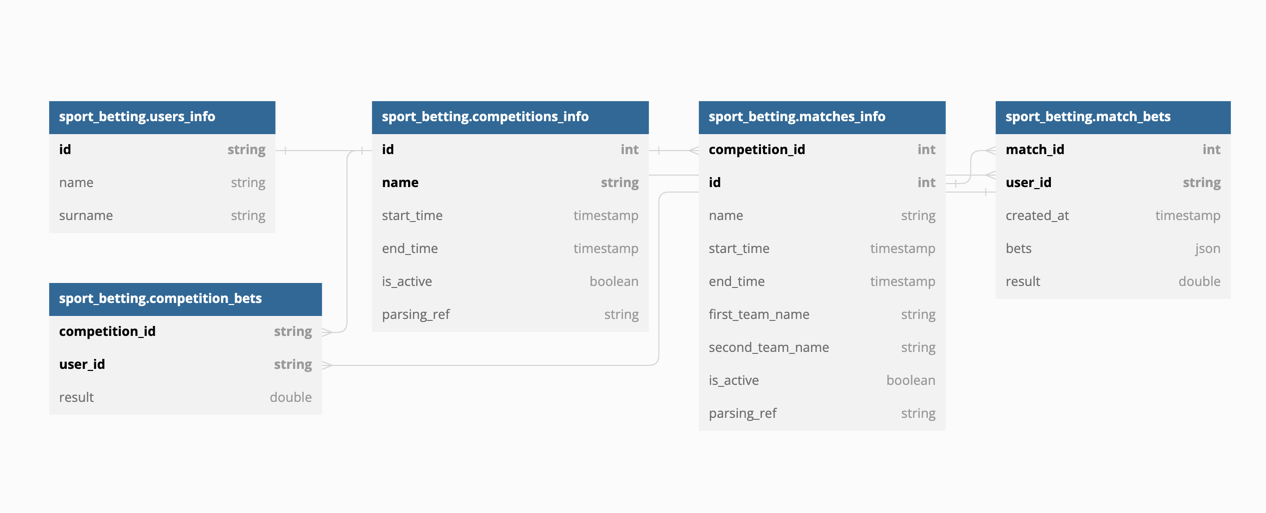
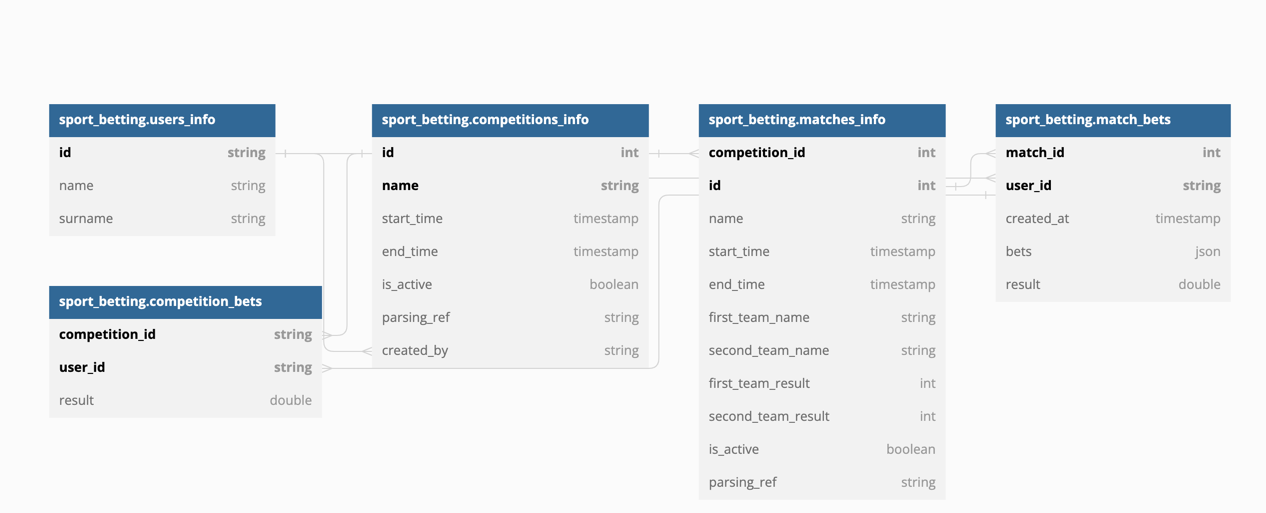
123

diff --git a/README.md b/README.md
@@ -203,8 +203,165 @@ Table sport_betting.codes {
 5) Считаем, что телеграм-ник является неизменным для пользователя и единственным однозначным идентификатором
 
 # Соревнования
-## Ручки
+Вступление в соревнования будет работать по ссылке. Только создатель соревнования может сам поделиться ей с друзьями и  только так пользователь может вступить в него.
 ## Парсер
+Подобновлять инфу с ссылок для парсинга будем раз в день, обновляем инфу о соревнованиях до момента завершения всех матчей соревнования, матчей - до момент авыставления счета. Проходимся по всем соревнованиям и матчам таблицы, где is_active == true и если что обновляем записи. При дергании ручек где есть фильтры по активности мероприятия так же обновляем инфу о всех мероприятиях
+## Ручки
+```
+/competitions:
+        get:
+            description: Получает все соревнования пользователя.
+            parameters:
+              - in: query
+                name: id
+                required: true
+                schema:
+                    type: string
+            responses:
+                '200':
+                    schema:
+                        type: object
+                        required:
+                          - competitions
+                        properties:
+                            competitions:
+                                type: array
+                                items:
+                                    $ref: '#/definitions/Competition'
+                '400':
+                    description: Ошибка при валидации параметров
+                    schema:
+                        $ref: '#/definitions/ErrorResponse'
+                '404':
+                    description: Пользователь не найден
+                    schema:
+                        $ref: '#/definitions/ErrorResponse'
+                        
+/competitions_info:
+        post:
+            description: Добавляет пользователя в участие в соревнование.
+            parameters:
+              - in: query
+                name: competition_id
+                required: true
+                schema:
+                    type: string
+              - in: query
+                name: id
+                required: true
+                schema:
+                    type: string
+            responses:
+                '200':
+                    schema:
+                        $ref: '#/definitions/Competition'
+                '400':
+                    description: Ошибка при валидации параметров
+                    schema:
+                        $ref: '#/definitions/ErrorResponse'
+                '404':
+                    description: Пользователь или соревнование не найдены
+                    schema:
+                        $ref: '#/definitions/ErrorResponse'
+        get:
+            description: Отдает информаицю о соревновании для этого пользовтеля.
+            parameters:
+              - in: query
+                name: competition_id
+                required: true
+                schema:
+                    type: string
+              - in: query
+                name: id
+                required: true
+                schema:
+                    type: string
+            responses:
+                '200':
+                    schema:
+                        $ref: '#/definitions/Competition'
+                '400':
+                    description: Ошибка при валидации параметров
+                    schema:
+                        $ref: '#/definitions/ErrorResponse'
+                '404':
+                    description: Пользователь или соревнование не найдены
+                    schema:
+                        $ref: '#/definitions/ErrorResponse'
+definitions:
+       Match:
+           type: object
+           required:
+             - id
+             - name
+             - first_team_result
+             - second_team_result
+           properties:
+               id:
+                   type: integer
+               name:
+                   type: string
+               first_team_result:
+                   type: integer
+               second_team_result:
+                   type: integer
+               bets_result:
+                   type: double
+
+       Competition:
+           type: object
+           required:
+             - name
+             - id
+             - is_active
+             - matches
+           properties:
+               name:
+                   type: string
+               id:
+                   type: integer
+               is_active:
+                   type: boolean
+               matches:
+                   type: array
+                   items:
+                       $ref: '#/definitions/Match'
+               leader_board:
+                   type: array
+                   items:
+                       #ref: '#/definitions/BetsResult'
+       
+       Bets:
+           type: object
+           required:
+             - name
+             - bet
+           properties:
+               name:
+                   type: string
+               bet:
+                   type: integer
+           
+       BetsResult:
+           type: object
+           required:
+             - user_id
+             - result
+           properties:
+               user_id:
+                   type: string
+               result:
+                   type: double
+               bets:
+                   type: array
+                   items:
+                       $ref: '#/definitions/Bets'
+           
+           
+                       
+                    
+           
+```
 ## Схема базы данных
 ![img_1.png](img_1.png)
 https://dbdiagram.io/d/63b33edc7d39e42284e881f7
@@ -225,6 +382,7 @@ Table sport_betting.competitions_info {
   end_time timestamp
   is_active boolean [default: true]
   parsing_ref string [not null]
+  created_by string [not null, ref: > sport_betting.users_info.id]
   Indexes {
     (id, name) [pk]
   }
@@ -238,6 +396,8 @@ Table sport_betting.matches_info {
   end_time timestamp
   first_team_name string [not null]
   second_team_name string [not null]
+  first_team_result int
+  second_team_result int
   is_active boolean [default: true]
   parsing_ref string
   Indexes {
